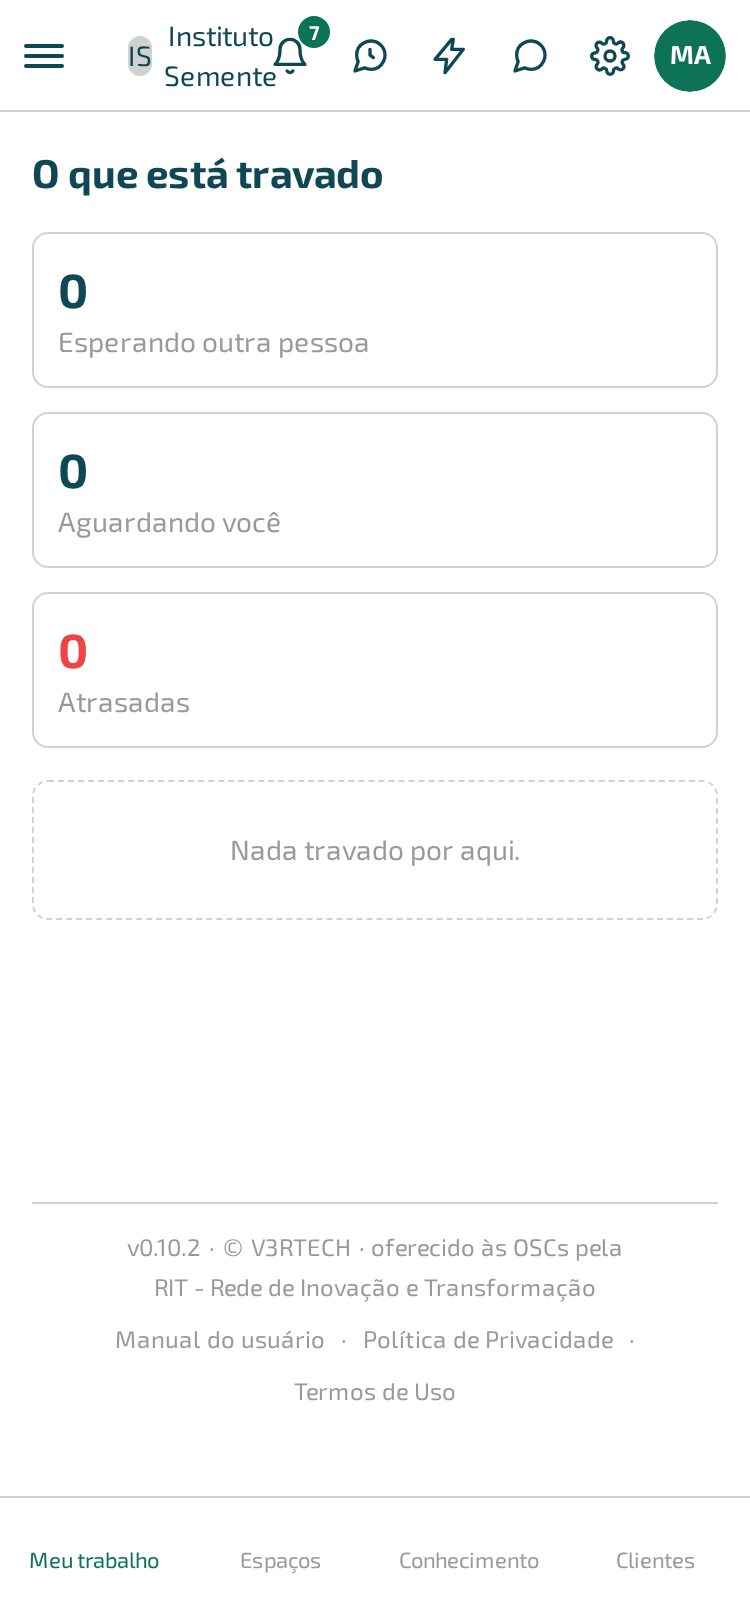
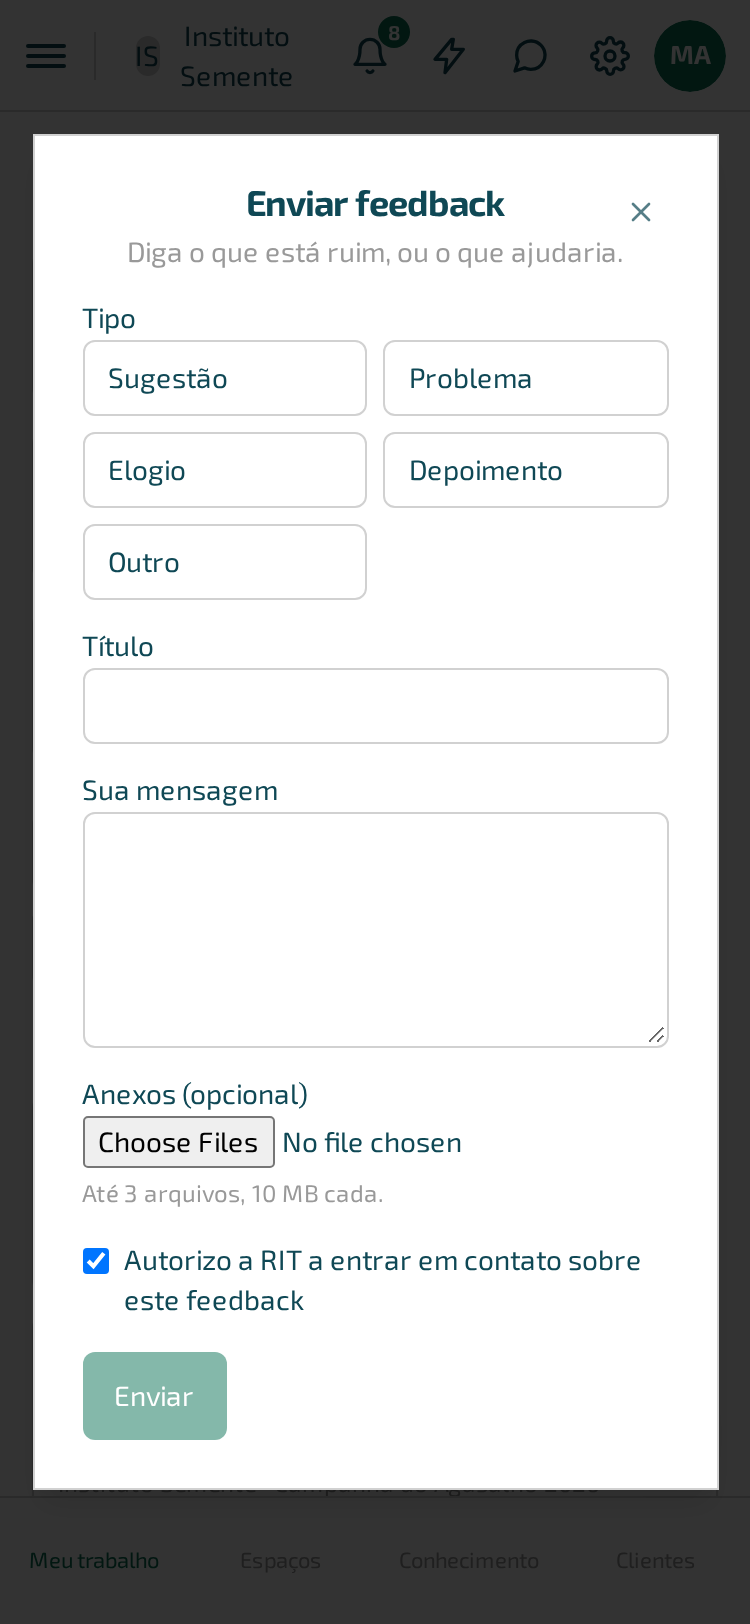
docs(manual): capturas do cenário Instituto Semente na 0.14.0
Meu trabalho, perfil, menção na conversa, assinar agenda, documentos e wiki
do espaço e a janela de feedback. Mudar de servidor segue sem imagem (#146).

diff --git a/trabalho/assinar-agenda.md b/trabalho/assinar-agenda.md
@@ -37,7 +37,13 @@ Google, e o Google recusa com "Não foi possível adicionar a agenda. Verifique 
 correção não sai, use o caminho acima, com o endereço copiado — ele funciona. O endereço é o mesmo
 nos dois caminhos.
 
-<!-- CAPTURA: rota=/espacos/<id> (aba Trabalho, visão Calendário) | o-que-mostrar=painel "Assinar agenda" aberto, com o texto "O endereço é pessoal e funciona como uma chave de leitura..." e o botão "Adicionar ao Google Agenda" visíveis | arquivo=assinar-agenda-painel-desktop.png e assinar-agenda-painel-celular.png -->
+![Painel "Assinar agenda" aberto, com o aviso sobre o endereço ser pessoal e o botão "Adicionar ao Google Agenda"](/assets/capturas/assinar-agenda-painel-desktop.png)
+{: .mt-4 }
+
+A mesma tela no celular:
+
+![Painel "Assinar agenda" aberto, com o aviso sobre o endereço ser pessoal e o botão "Adicionar ao Google Agenda" — no celular](/assets/capturas/assinar-agenda-painel-celular.png){: style="max-width:375px" }
+{: .mt-4 }
 
 ## Usar outro calendário (Outlook, celular, outro programa)
 
@@ -50,7 +56,13 @@ nos dois caminhos.
 O botão que você clicou mostra **"Copiado!"** por instantes, confirmando que o texto foi para a
 área de transferência.
 
-<!-- CAPTURA: rota=/espacos/<id> (aba Trabalho, visão Calendário) | o-que-mostrar=painel "Assinar agenda" com "usar outro calendário" expandido, mostrando os dois endereços e os botões "Copiar endereço" e "Copiar link do webcal" | arquivo=assinar-agenda-outro-calendario-desktop.png e assinar-agenda-outro-calendario-celular.png -->
+![Painel "Assinar agenda" com "usar outro calendário" expandido, mostrando os dois endereços e os botões "Copiar endereço" e "Copiar link do webcal"](/assets/capturas/assinar-agenda-outro-calendario-desktop.png)
+{: .mt-4 }
+
+A mesma tela no celular:
+
+![Painel "Assinar agenda" com "usar outro calendário" expandido, mostrando os dois endereços e os botões "Copiar endereço" e "Copiar link do webcal" — no celular](/assets/capturas/assinar-agenda-outro-calendario-celular.png){: style="max-width:375px" }
+{: .mt-4 }
 
 ## Exemplo
 

diff --git a/configuracoes/perfil.md b/configuracoes/perfil.md
@@ -34,7 +34,13 @@ que torna o Realiza legível para quem trabalha com você.
 2. Formatos aceitos: PNG, JPEG ou WEBP.
 3. Para remover a foto atual, clique em **"Remover foto"**.
 
-<!-- CAPTURA: rota=/perfil | o-que-mostrar=tela Meu perfil, em duas colunas: nome/telefone/foto à esquerda, Telegram e preferências de aviso à direita (sem o cartão de agenda, que saiu daqui) | arquivo=perfil-duas-colunas-desktop.png e perfil-duas-colunas-celular.png -->
+![Tela "Meu perfil" em duas colunas: nome, telefone e foto à esquerda; Telegram e preferências de aviso à direita](/assets/capturas/perfil-duas-colunas-desktop.png)
+{: .mt-4 }
+
+A mesma tela no celular:
+
+![Tela "Meu perfil" em duas colunas: nome, telefone e foto à esquerda; Telegram e preferências de aviso à direita — no celular](/assets/capturas/perfil-duas-colunas-celular.png){: style="max-width:375px" }
+{: .mt-4 }
 
 ## Por que o e-mail não se edita aqui
 
@@ -98,7 +104,13 @@ A coluna **"Notificação no aparelho"** é o interruptor por tipo — ela só t
 você ativa as notificações **neste aparelho**, no bloco logo acima da lista. Sem ativar o
 aparelho, ligar o interruptor não faz nada chegar.
 
-<!-- CAPTURA: rota=/perfil#preferencias-de-avisos | o-que-mostrar=tabela de tipos de aviso por canal, incluindo "Fui mencionado numa conversa" | arquivo=perfil-avisos-tabela-desktop.png e perfil-avisos-tabela-celular.png -->
+![Tabela de preferências de aviso por canal, com o tipo "Fui mencionado numa conversa" ao final](/assets/capturas/perfil-avisos-tabela-desktop.png)
+{: .mt-4 }
+
+A mesma tela no celular:
+
+![Tabela de preferências de aviso por canal, com o tipo "Fui mencionado numa conversa" ao final — no celular](/assets/capturas/perfil-avisos-tabela-celular.png){: style="max-width:375px" }
+{: .mt-4 }
 
 {: .warning }
 Desligar o e-mail de um tipo de aviso **não elimina a pendência**. Se Beatriz Lima desliga o

diff --git a/trabalho/meu-trabalho.md b/trabalho/meu-trabalho.md
@@ -16,7 +16,13 @@ outra organização é que o Realiza troca para ela.
 
 No menu, é a tela que abre com o título **"Meu trabalho"**.
 
-<!-- CAPTURA: rota=/painel | o-que-mostrar=as três contagens no topo, os filtros de organização e espaço, e as sete faixas — "Depende de você" com pelo menos um item de cada categoria (atrasada, aguardando você), "Parado" com um item e "Menções" com pelo menos um item | arquivo=painel-visao-geral-desktop.png e painel-visao-geral-celular.png -->
+![Tela "Meu trabalho" com as três contagens no topo, os filtros de organização e espaço, e as sete faixas](/assets/capturas/painel-visao-geral-desktop.png)
+{: .mt-4 }
+
+A mesma tela no celular:
+
+![Tela "Meu trabalho" com as três contagens no topo, os filtros de organização e espaço, e as sete faixas — no celular](/assets/capturas/painel-visao-geral-celular.png){: style="max-width:375px" }
+{: .mt-4 }
 
 ## As sete faixas, nesta ordem
 
@@ -154,4 +160,10 @@ lugar nenhum do painel. Vale o mesmo para **"Menções"**: só aparecem ali as v
 citou na conversa compartilhada — ninguém consegue mencioná-la na conversa interna, porque ela não
 alcança essa aba.
 
-<!-- CAPTURA: rota=/painel | o-que-mostrar=o painel de Beatriz Lima, convidada de fora, restrito ao espaço "Campanha do Agasalho 2026" | arquivo=painel-convidado-desktop.png e painel-convidado-celular.png -->
+![Painel de Beatriz Lima, convidada de fora, restrito ao espaço "Campanha do Agasalho 2026"](/assets/capturas/painel-convidado-desktop.png)
+{: .mt-4 }
+
+A mesma tela no celular:
+
+![Painel de Beatriz Lima, convidada de fora, restrito ao espaço "Campanha do Agasalho 2026" — no celular](/assets/capturas/painel-convidado-celular.png){: style="max-width:375px" }
+{: .mt-4 }

diff --git a/trabalho/conversas.md b/trabalho/conversas.md
@@ -99,7 +99,13 @@ também não consegue mencionar ninguém ali — a aba simplesmente não existe 
 compartilhada, ela pode mencionar e ser mencionada normalmente, como qualquer outro participante
 do espaço.
 
-<!-- CAPTURA: rota=/tarefas/{id} | o-que-mostrar=o campo de mensagem com "@" digitado e a lista de sugestões de participantes aberta, com pelo menos duas pessoas e o realce por teclado visível | arquivo=conversas-mencao-lista-desktop.png e conversas-mencao-lista-celular.png -->
+![Campo de mensagem com "@" digitado e a lista de sugestões de participantes aberta, com o item selecionado por teclado em destaque](/assets/capturas/conversas-mencao-lista-desktop.png)
+{: .mt-4 }
+
+A mesma tela no celular:
+
+![Campo de mensagem com "@" digitado e a lista de sugestões de participantes aberta, com o item selecionado por teclado em destaque — no celular](/assets/capturas/conversas-mencao-lista-celular.png){: style="max-width:375px" }
+{: .mt-4 }
 
 ## Quando dá errado
 

diff --git a/enviar-feedback.md b/enviar-feedback.md
@@ -28,8 +28,13 @@ ter que perguntar de volta.
    se não quiser ser procurado sobre esse envio.
 6. Clique em **"Enviar"**. A janela fecha e você continua exatamente onde estava.
 
-<!-- CAPTURA: rota=qualquer tela, com o ícone de feedback clicado | o-que-mostrar=janela de envio
-     de feedback aberta por cima da tela | arquivo=feedback-envio-desktop.png e feedback-envio-celular.png -->
+![Janela de envio de feedback aberta por cima da tela "Meu trabalho"](/assets/capturas/feedback-envio-desktop.png)
+{: .mt-4 }
+
+A mesma tela no celular:
+
+![Janela de envio de feedback aberta por cima da tela "Meu trabalho" — no celular](/assets/capturas/feedback-envio-celular.png){: style="max-width:375px" }
+{: .mt-4 }
 
 {: .note }
 Se você chegar pelo endereço antigo `/feedback` — um link salvo ou um favorito de antes —, o

diff --git a/trabalho/documentos-e-wiki-do-espaco.md b/trabalho/documentos-e-wiki-do-espaco.md
@@ -25,9 +25,13 @@ igual aqui dentro do espaço.
   "Interno" por aqui — o servidor recusaria, e por isso a tela nem oferece essa opção a essa
   pessoa.
 
-<!-- CAPTURA: rota=/espacos/<id>/conhecimento | o-que-mostrar=aba "Documentos e wiki" aberta a
-     partir de um espaço, com a lista de documentos daquele espaço | arquivo=espaco-documentos-wiki-desktop.png
-     e espaco-documentos-wiki-celular.png -->
+![Aba "Documentos e wiki" aberta a partir de um espaço, com a lista de documentos daquele espaço](/assets/capturas/espaco-documentos-wiki-desktop.png)
+{: .mt-4 }
+
+A mesma tela no celular:
+
+![Aba "Documentos e wiki" aberta a partir de um espaço, com a lista de documentos daquele espaço — no celular](/assets/capturas/espaco-documentos-wiki-celular.png){: style="max-width:375px" }
+{: .mt-4 }
 
 ## Exemplo
 
